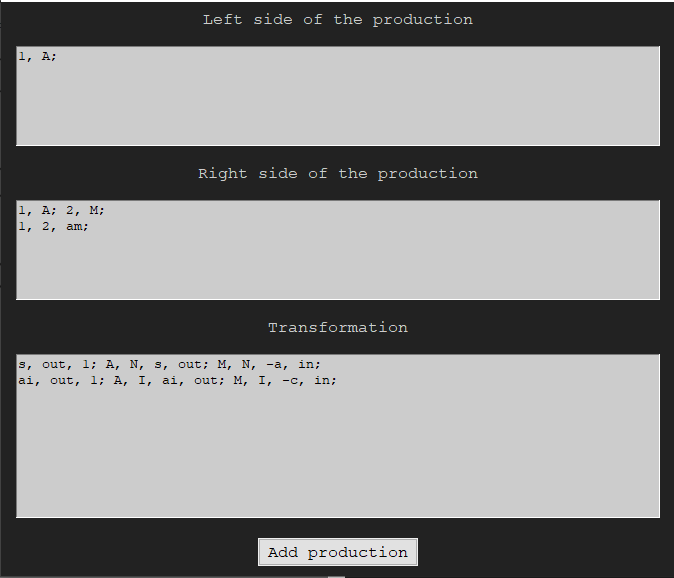
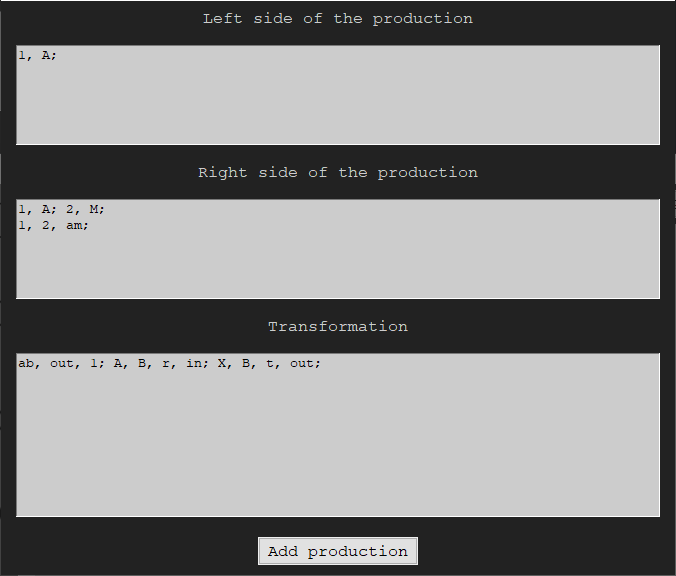
readme++

diff --git a/main.py b/main.py
@@ -123,48 +123,3 @@ class Main:
                             graph.add_edge(Edge(right_vertex_id, other_vertex_id, added_edge[2]))
                         else:
                             graph.add_edge(Edge(other_vertex_id, right_vertex_id, added_edge[2]))
-
-
-# Embedded transform input format:
-# """edge_label, direction, index_left; ver_right_label, ver_g_label, edge_label, direction;
-# edge_label, direction, index_left; ver_right_label, ver_g_label, edge_label, direction;"""
-A1 = """s, out, 1; A, N, s, out; N, N, -n, in; N, N, n, in;"""
-A2 = """s, out, 1; A, N, s, out; M, N, -a, in;
-ai, out, 1; A, I, ai, out; M, I, -c, in;"""
-A3 = """am, out, 1; A, M, am, out; E, M, -b, in;"""
-A4 = """ae, out, 1; A, E, ae, out; I, E, -l, in;
-am, out, 1; A, M, am, out; I, M, c, in;"""
-
-g_l1 = """1, A;"""
-g_r1 = """1, A; 2, N;
-1, 2, s;"""
-g_l2 = """1, A;"""
-g_r2 = """1, A; 2, M;
-1, 2, am;"""
-g_l3 = """1, A;"""
-g_r3 = """1, A; 2, E;
-1, 2, ae;"""
-g_l4 = """1, A;"""
-g_r4 = """1, A; 2, I;
-1, 2, ai;"""
-graphs = [(g_l1, "g_l1", g_r1, "g_r1"),
-          (g_l2, "g_l2", g_r2, "g_r2"),
-          (g_l3, "g_l3", g_r3, "g_r3"),
-          (g_l4, "g_l4", g_r4, "g_r4"),
-          ]
-
-embedment = [A1, A2, A3, A4]
-
-
-def default(m=None):
-    if m is None:
-        m = Main()
-    for i in range(len(graphs)):
-        m.add_production(graphs[i][0], graphs[i][1], graphs[i][2], graphs[i][3], embedment[i])
-    for i in range(len(graphs)):
-        for j in range(2):
-            m.add_graph(graphs[i][j * 2], graphs[i][j * 2 + 1])
-    return m
-
-
-M = default()

diff --git a/gui.py b/gui.py
@@ -7,7 +7,7 @@ from PIL import ImageTk, Image
 
 from main import Main
 
-DEFAULT_GRAPH_INPUT_STRING = "1, A; 2, B; 3, C; 4, D;\n1, 3, s; 1, 4, xd; 2, 2, a; 4, 2, r; 2, 3, d;"
+DEFAULT_GRAPH_INPUT_STRING = "1, A; 2, B; 3, C;\n1, 2, ab; 2, 3, bc;"
 
 HEIGHT = 700
 WIDTH = 1200
@@ -182,7 +182,7 @@ def prod_input_window(backend, prod_frame):
     prod_label = tk.Label(frame, text="Transformation", bg=BG_COLOR, fg=FG_COLOR, font=FONT)
     prod_label.grid(row=4, column=0, pady=5)
     prod_text_box = tk.Text(frame, width=80, height=10, bg=FG_COLOR)
-    prod_text_box.insert(tk.INSERT, "s, out, 1; A, N, s, out; M, N, -a, in;\nai, out, 1; A, I, ai, out; M, I, -c, in;")
+    prod_text_box.insert(tk.INSERT, "ab, out, 1; A, B, r, in; X, B, t, out;")
     prod_text_box.grid(row=5, column=0, padx=10, pady=10)
 
     def add_prod(prod_frame):
